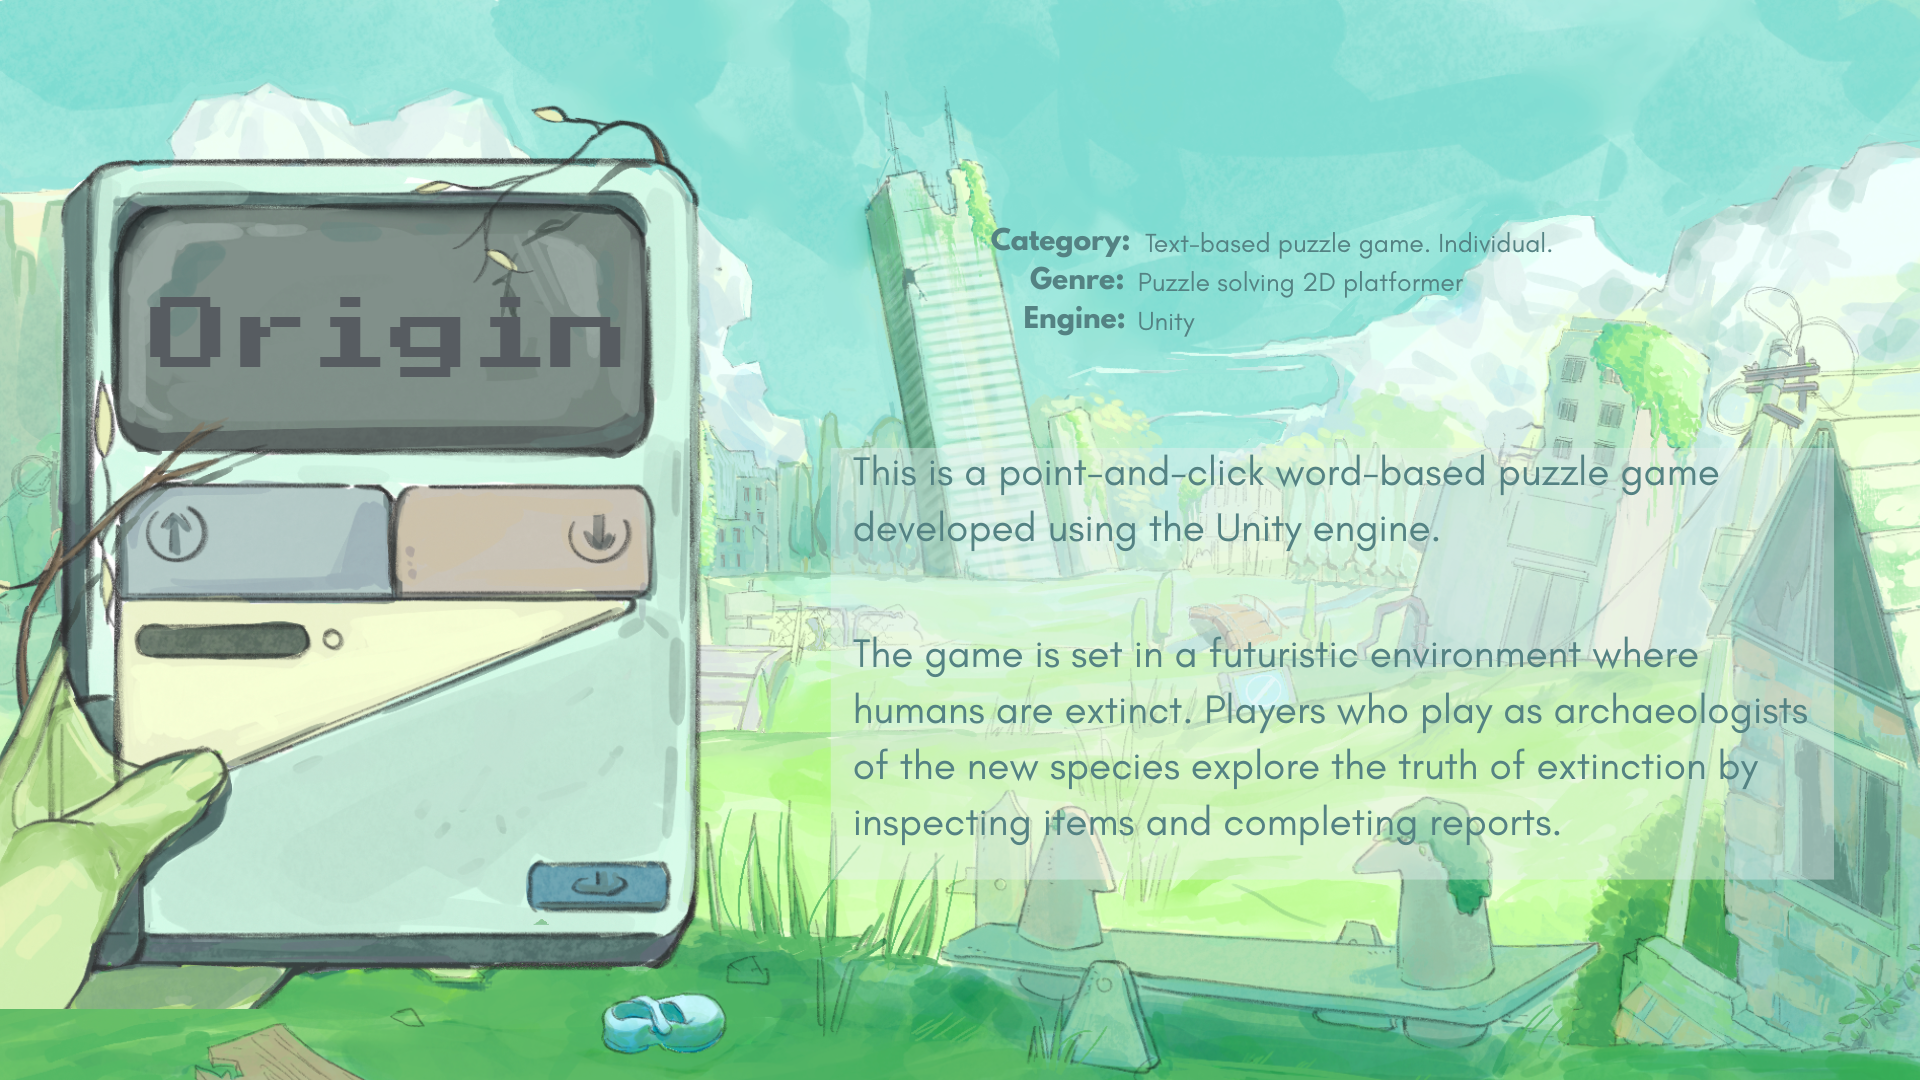
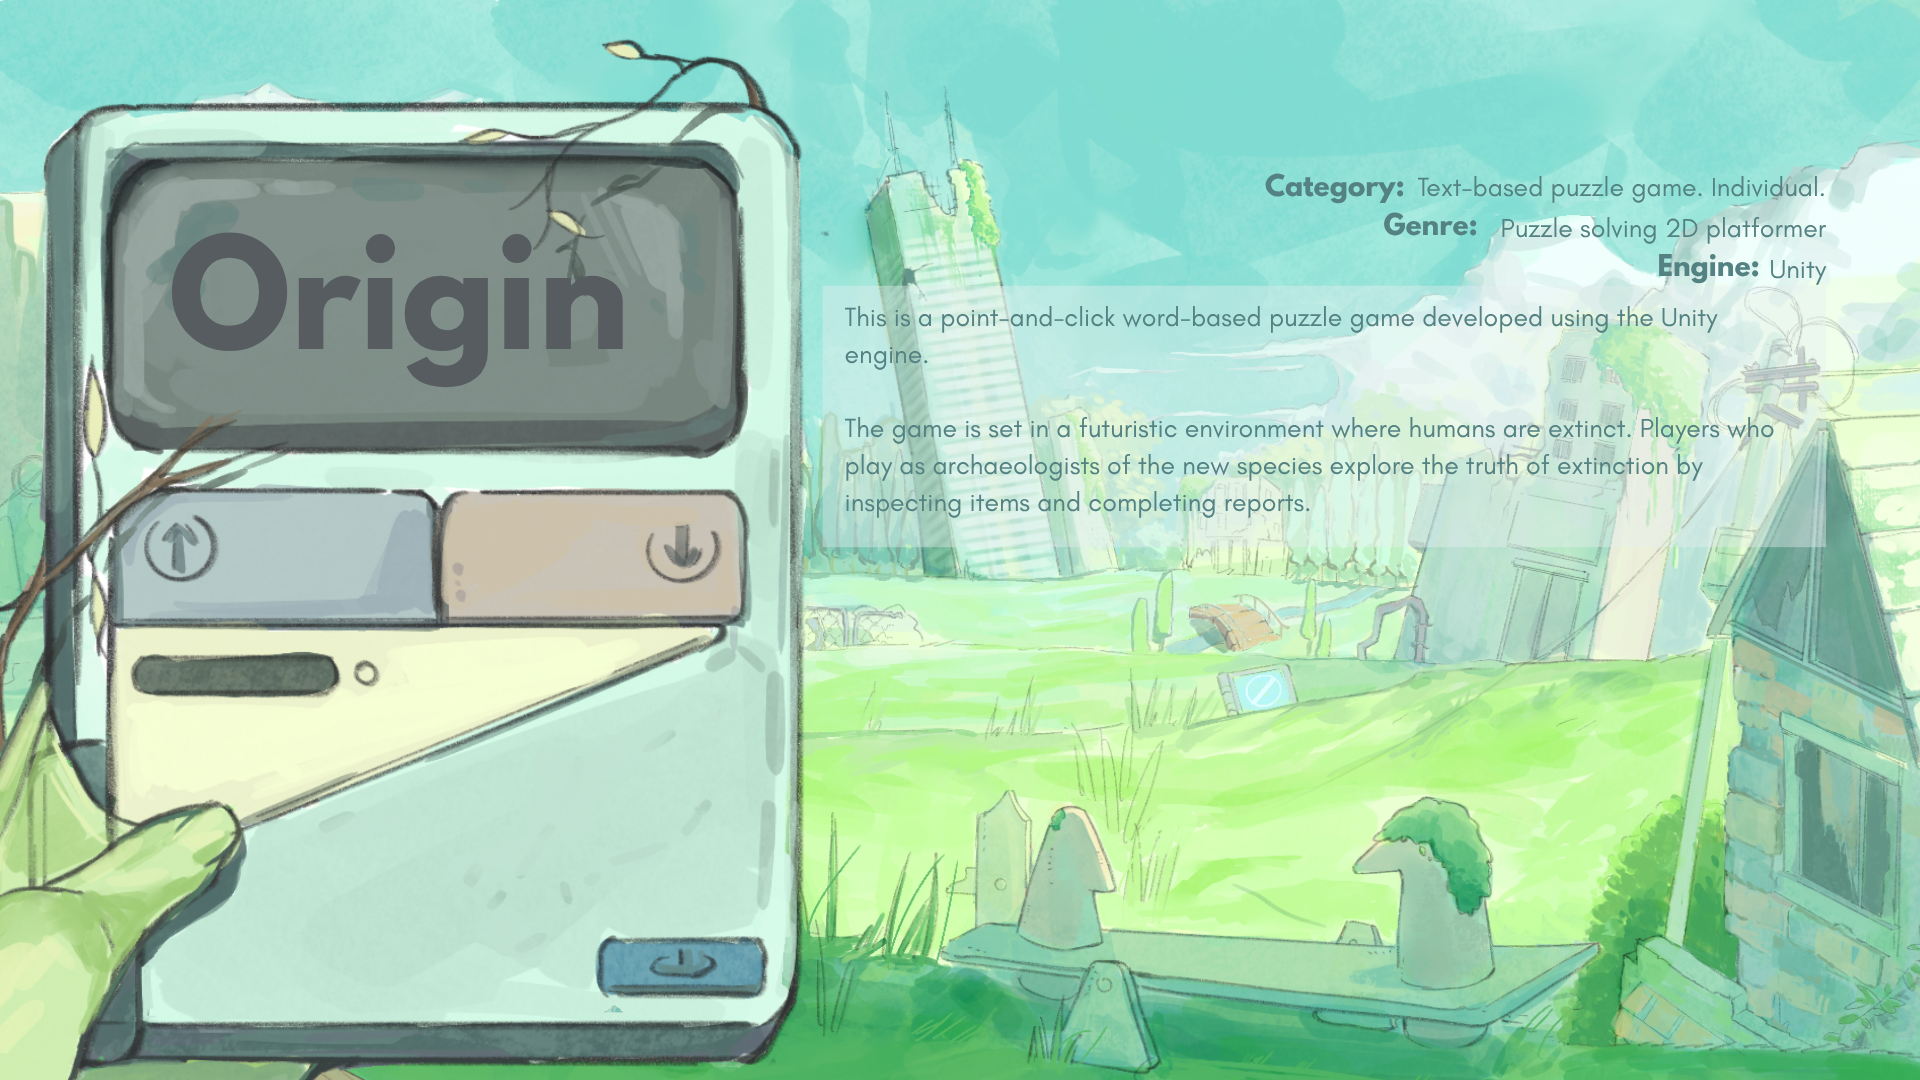
1

diff --git a/Project3.html b/Project3.html
@@ -1,0 +1,203 @@
+<!DOCTYPE html>
+<html lang="en">
+<head>
+  <meta charset="utf-8" />
+  <title>Welcome to my Site..</title>
+  <meta name="viewport" content="width=device-width, initial-scale=1.0" />
+  <meta name="description" content="This is my practice for making a web page." />
+  <meta name="keywords" content="HTML,CSS,art" />
+  <link rel="stylesheet" href="https://use.typekit.net/dbu8pdp.css">
+
+  <style>
+    /* === Reset / base === */
+    * { box-sizing: border-box; }
+    html, body { height: 100%; }
+    body {
+      margin: 0;
+      background-color: rgb(202, 230, 255);
+      color: rgb(196, 161, 161);
+      font-family: "Roca", serif;
+      font-weight: 400;
+      font-size: 15pt;
+    }
+    img, video { display:block; max-width:100%; height:auto; }
+
+    .logo-link {
+      font-family: "Roca", Regular;
+      font-size: 25px;
+      text-decoration: none;
+      color: #1497ef;
+    }
+    .logo-link:hover { color:#439eff; text-decoration:underline; }
+
+    .nav-links {
+      display: flex;
+      gap: 50px;
+      position: fixed;
+      top: 20px;
+      left: 30px;
+      z-index: 9999;
+    }
+    * { box-sizing: border-box; }
+    html, body { height: 100%; }
+    body {
+      margin: 0;
+      background-color: rgb(206, 236, 255);
+      color: rgb(196, 161, 161);
+      font-family: "Roca", serif;
+      font-weight: 400;
+      font-size: 15pt;
+    }
+    img, video { display:block; max-width:100%; height:auto; }
+
+    .logo-link {
+      font-family: "Roca", Regular;
+      font-size: 25px;
+      text-decoration: none;
+      color: #39a6ff;
+    }
+    .logo-link:hover { color:#439eff; text-decoration:underline; }
+
+    .nav-links {
+      display: flex;
+      gap: 50px;
+      position: fixed;
+      top: 20px;
+      left: 30px;
+      z-index: 9999;
+    }
+
+.hero {
+  position: relative;
+  height: 80vh; 
+  overflow: hidden;
+  width: 100%;
+  margin-top: 60px;
+}
+    .hero .video-link { position:relative; display:block; width:100%; height:100%; }
+    .hero .hero-media { position:relative; width:100%; height:100%; }
+    .hero .hero-media img,
+    .hero .hero-media video {
+      position:absolute; inset:0;
+      width:100%; height:100%;
+      object-fit:cover;
+      border-radius:0;
+    }
+    .hero .hero-media video { opacity:0; transition:opacity .3s ease; }
+    .hero .hero-media:hover video { opacity:1; }
+:root { --edge: 40px; }
+.art-section {
+  width: 80%;
+  max-width: 1200px;
+  margin: 0 auto;
+  padding: 32px 0;
+  background: transparent;
+}
+
+
+.art-section {
+  width: 92%; 
+  max-width: 1600px;
+  margin: 0 auto; 
+  padding: 40px 0;
+  background: transparent;
+}
+
+
+.art-content {
+  width: 100%;
+  margin: 0 auto;
+}
+
+
+.art-content.img img,
+.narrative-img {
+  width: 100%;
+  max-width: 100%;
+  height: auto;
+  display: block;
+  border-radius: 0;
+  margin: 0 auto;
+}
+    .container {
+      width: min(1100px, 100%);
+      margin: 0 auto;
+      padding: 0 24px;
+    }
+
+    .description {
+      font-size: 20px;
+      line-height: 1.6;
+      color: #756565;
+    }
+
+   .media-row {
+  display: flex;
+  align-items: flex-start;
+  gap: 10px;
+  flex-wrap: nowrap;
+  margin-top: 10px;
+}
+
+.media-container {
+  flex: 1 1 45%;
+  aspect-ratio: 4/5;
+  position: relative;
+  overflow: hidden;
+  border-radius: 12px;
+  cursor: pointer;
+}
+    .media-container img,
+    .media-container video {
+      position:absolute; inset:0;
+      width:100%; height:100%;
+      object-fit:cover;
+      border-radius:12px;
+      transition: opacity .3s ease;
+    }
+    .media-container video { opacity:0; }
+    .media-container:hover video { opacity:1; }
+    .media-container:hover img { opacity:0; }
+  </style>
+</head>
+
+<body>
+
+  <div class="nav-links">
+    <a href="index.html" class="logo-link">Home</a>
+    <a href="GamePage.html" class="logo-link">Game projects</a>
+  </div>
+
+<section class="hero">
+  <a href="https://www.youtube.com/watch?v=wkSU7qm9beA" target="_blank" class="video-link">
+    <div class="hero-media">
+      <img src="P2Process/P2Intro.png" alt="intro Image" />
+    </div>
+  </a>
+</section>
+
+
+<div class="art-section"> 
+  <div class="art-title"> 
+    <h1>Game intro</h1>
+   </div>
+    <div class="art-content">
+       <p class="description"> 
+          This project is a a point-and-click, text-based puzzle game which players will be the protagonist of the story. In an era that decades after human extincted
+          , an archeaologiest of the new born species is assinged to a region to explore the cause. Eventually, through collecting and inspecting items that were 
+          left behind, players will manage to find the truth...
+         </p>
+         </div> 
+        </div>
+
+        
+<div class="art-section"> 
+  <div class="art-title">
+     <h1>Game  Play</h1>
+ <div class="art-content">
+
+     </div>
+ </div>
+ 
+
+</body>
